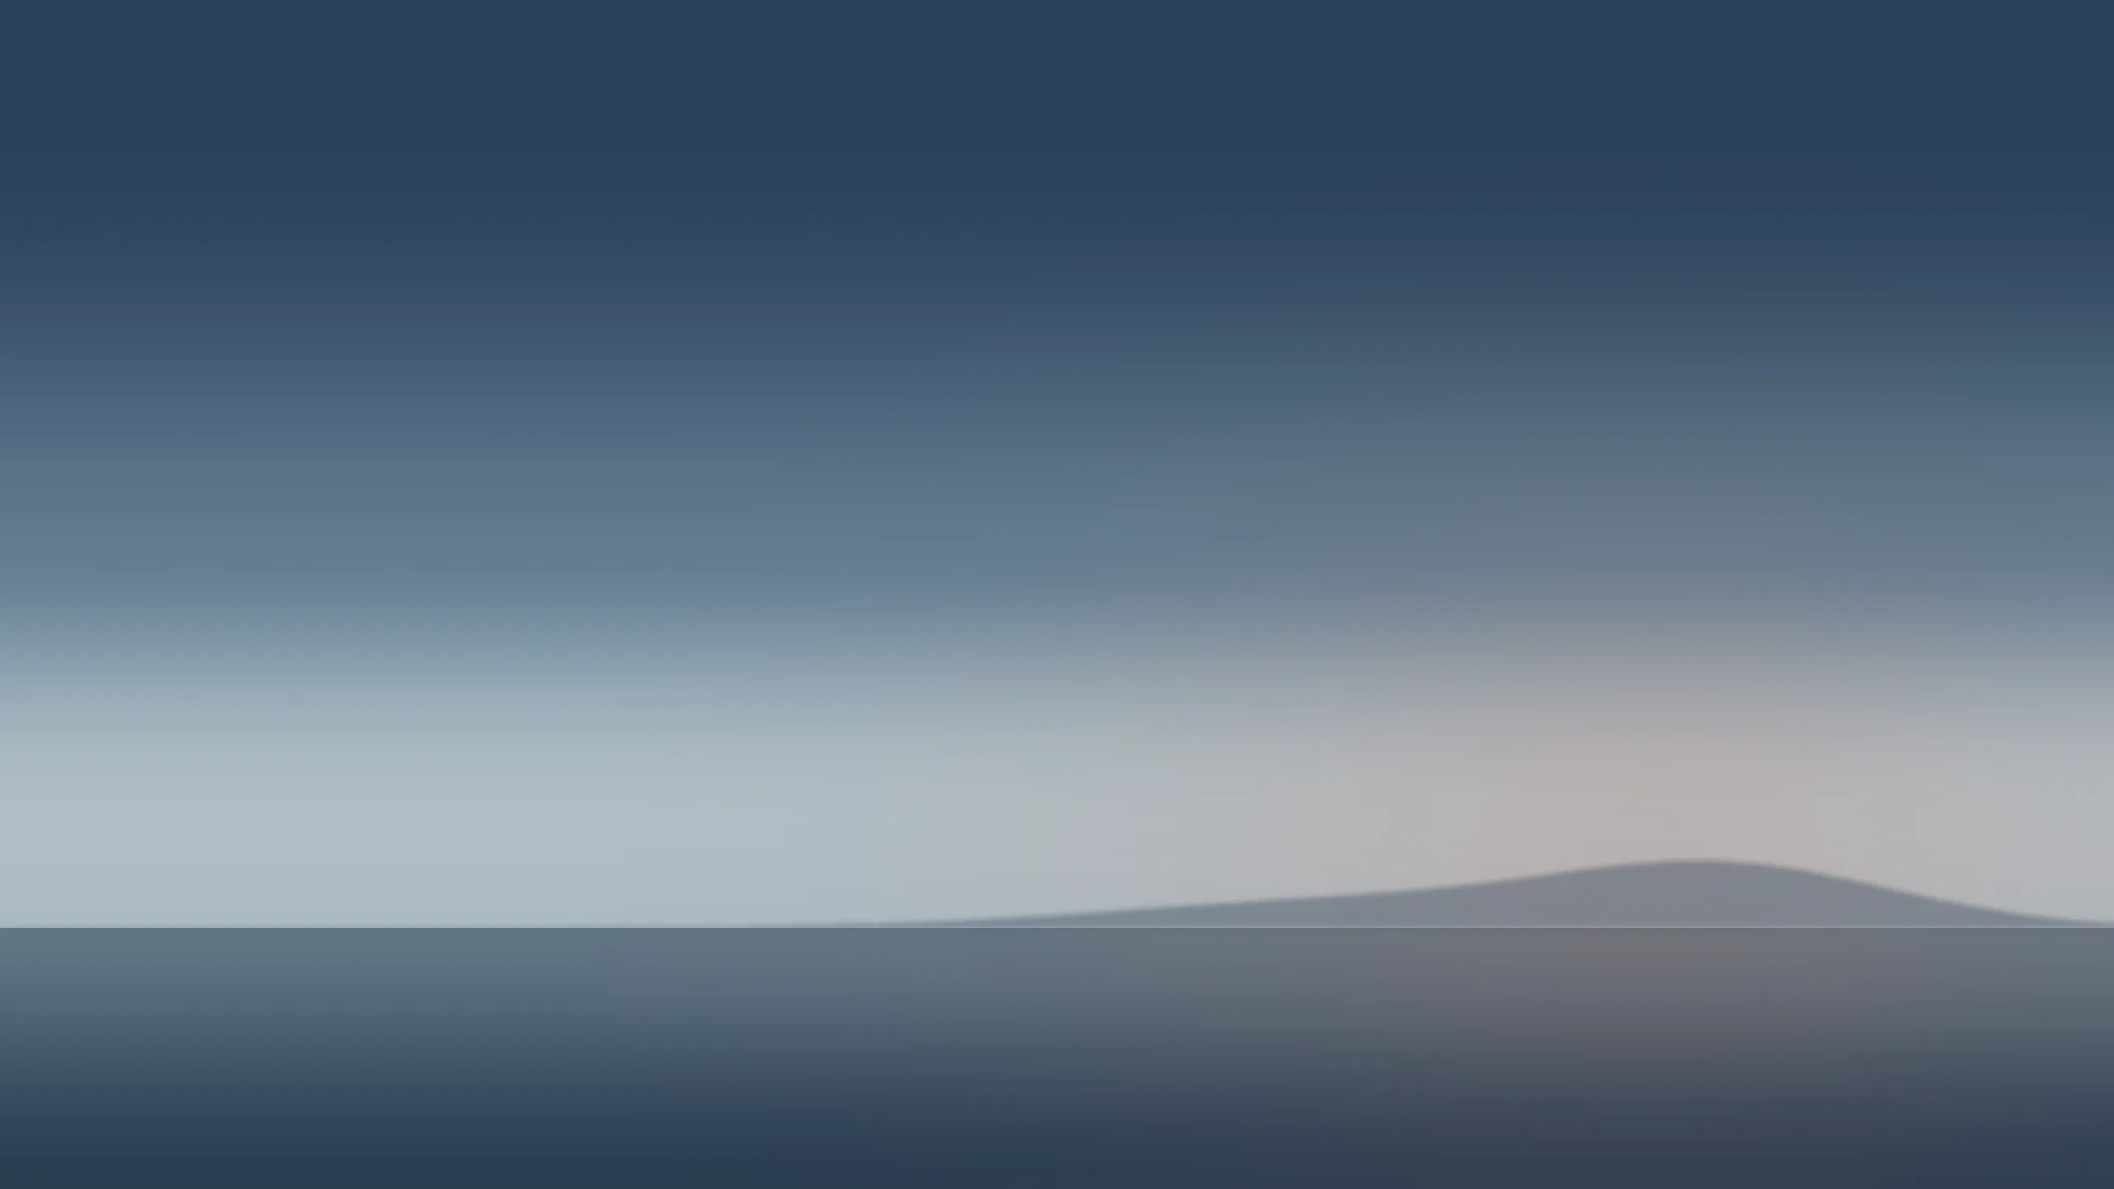
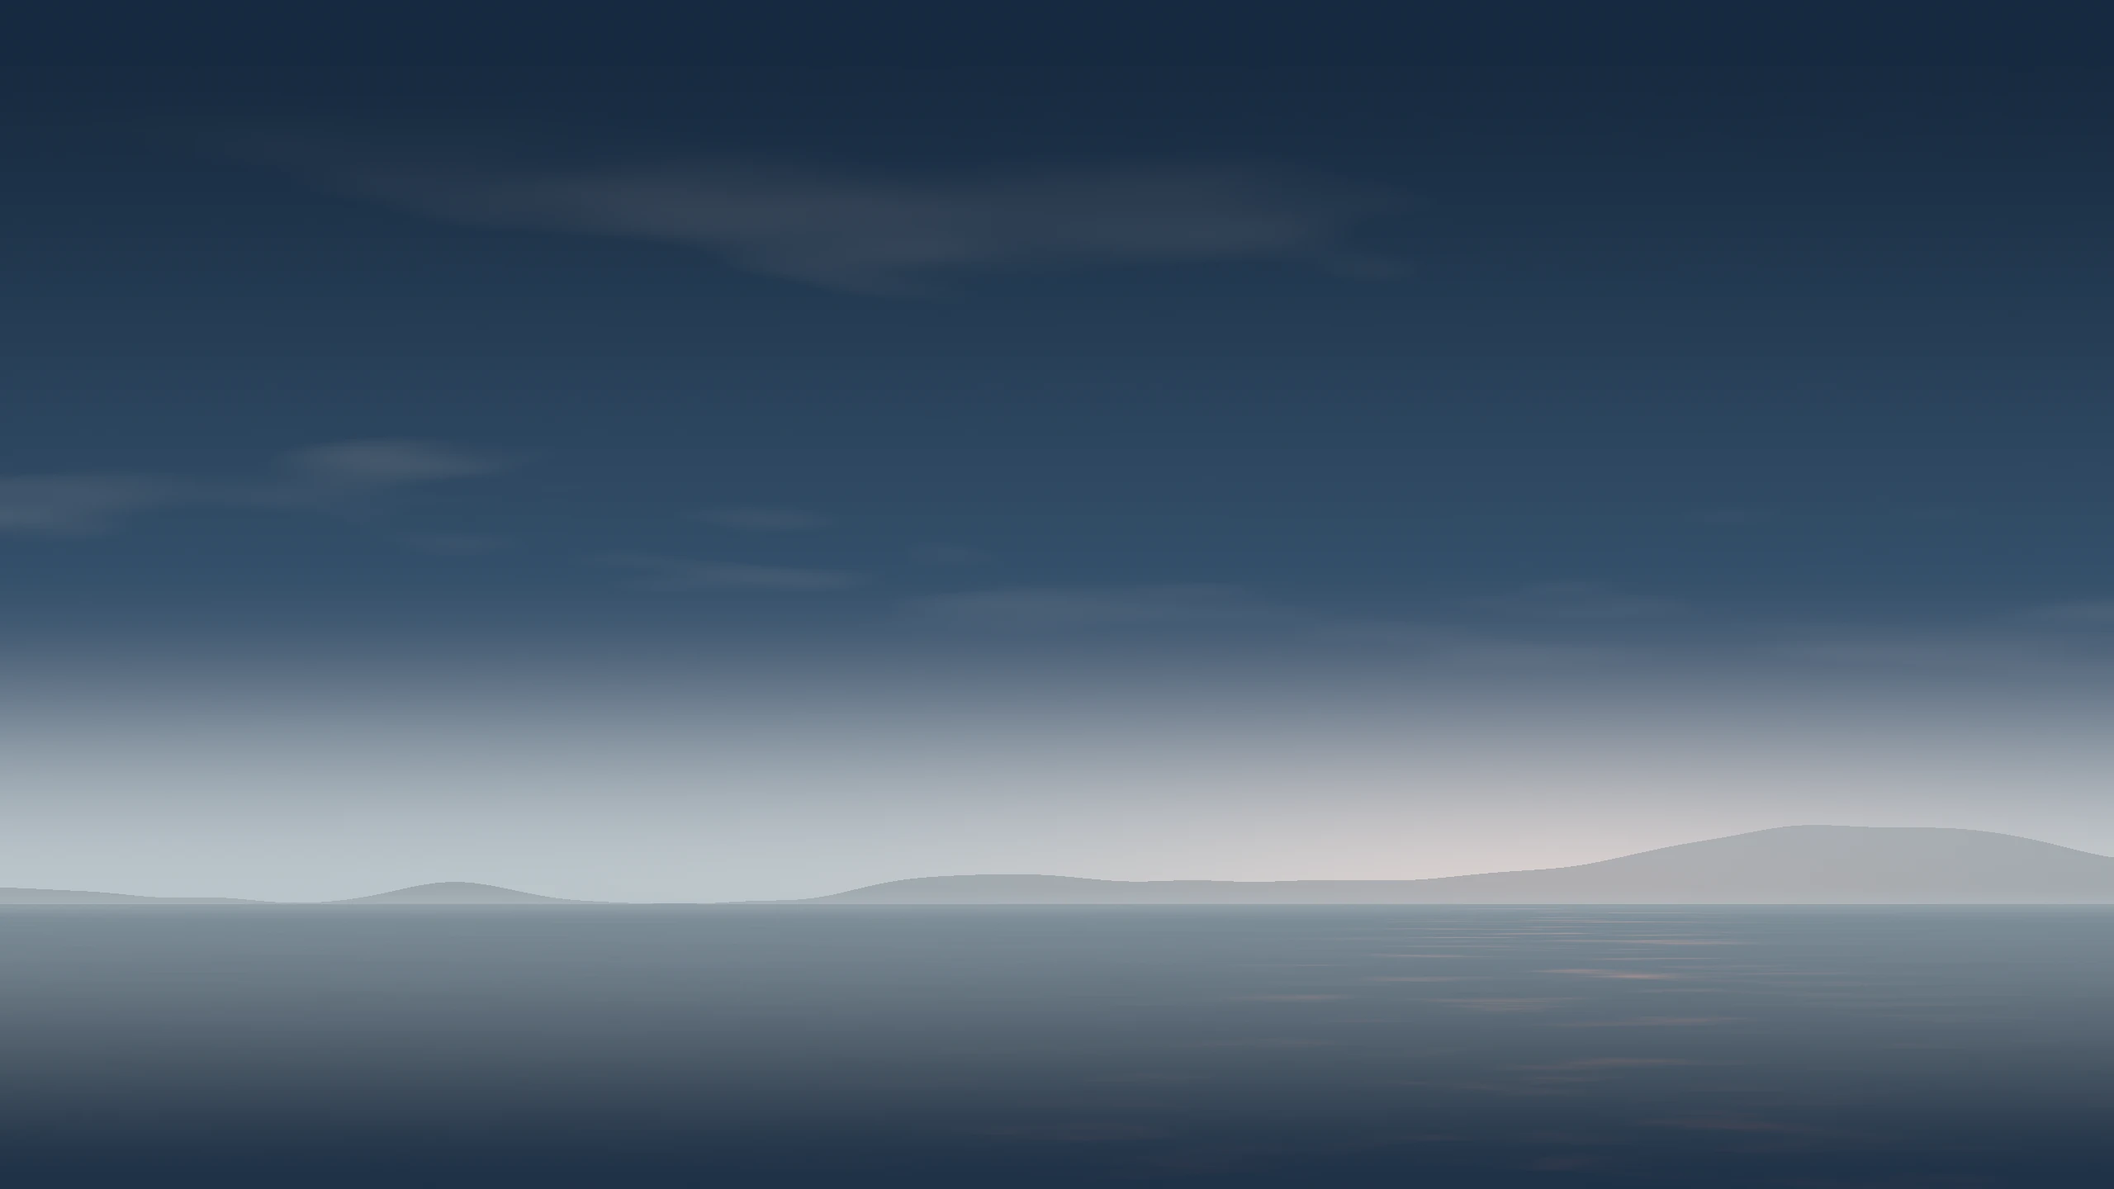
feat(mi-punto): fondo rehecho, ahora aguanta el 100 %
La version anterior eran cuatro degradados y se veia: mar plano,
costura recta por horizonte y bandas en el cielo. Mirado a tamano real
no daba el nivel del resto de la web.

Reescrito con numpy y scipy:
- Todo el mezclado en luz lineal, con paso a sRGB solo al final.
  Mezclar en sRGB es lo que ensuciaba los cielos.
- Nubes con ruido fBm estirado en horizontal y comprimido hacia el
  horizonte, que es la perspectiva de un cielo de verdad.
- Mar con olas cuya frecuencia crece con la distancia, camino de
  brillos bajo el sol y oscurecimiento hacia el espectador.
- El horizonte ya no es una linea dibujada sino bruma.
- Tramado triangular antes de cuantizar: adios escalones.
- La altura del promontorio va con el ancho, no con el alto: en el
  recorte vertical de movil salia un volcan.

El sol se queda pequeno a proposito. En una primera pasada tenia la
escena entera en rosa y la paleta pide azul grisaceo con un acento
calido pequeno.

Revisado recortando al 100 % el horizonte, la zona del titular y el
primer plano, no mirando la imagen reducida. Contraste del texto claro
sobre el fondo: 8,9:1 en el peor punto. 30 kB a 2560x1440.

diff --git a/mi-punto/scripts/generar_fondo.py b/mi-punto/scripts/generar_fondo.py
@@ -1,149 +1,215 @@
 """Fondo ambiental de Mi Punto.
 
-NO es una fotografia. Es un cielo construido por codigo: degradado
-vertical, luz lateral calida, horizonte bajo y grano fino. Se hace asi
-porque en esta sesion no hay generacion de imagenes y una foto con
-licencia habria que descargarla.
+NO es una fotografia: es una escena construida por codigo. Pero no son
+cuatro degradados. La primera version lo era y se notaba al mirarla a
+tamano real: mar plano, costura recta en el horizonte y bandas.
 
-La composicion reserva la mitad superior central limpia: ahi van la
-hora, el saludo y el buscador, y tienen que leerse.
+Lo que hace que aguante el 100 %:
 
-Uso:  python scripts/generar_fondo.py
+  · Todo el mezclado va en luz lineal y solo al final se pasa a sRGB.
+    Mezclar en sRGB es lo que ensucia los cielos.
+  · Nubes con ruido fBm estirado en horizontal y comprimido hacia el
+    horizonte: eso es la perspectiva de un cielo real.
+  · El mar tiene olas cuya frecuencia crece con la distancia, un camino
+    de brillos bajo el sol y oscurecimiento en primer plano.
+  · El horizonte no es una linea dibujada: es bruma, que es lo que se
+    ve de verdad.
+  · Tramado de ruido triangular antes de cuantizar a 8 bits. Sin esto
+    un degradado tan largo hace escalones, por muy bien calculado que
+    este.
+
+La mitad superior central se deja limpia y oscura: ahi van la hora, el
+saludo y el buscador, y tienen que leerse en blanco.
+
+Uso:  npm run fondos   (o  python scripts/generar_fondo.py)
 """
 
 from __future__ import annotations
 
-import math
-import random
 from pathlib import Path
 
-from PIL import Image, ImageDraw, ImageFilter
+import numpy as np
+from PIL import Image
+from scipy.ndimage import gaussian_filter1d, zoom
 
 SALIDA = Path(__file__).resolve().parent.parent / "src" / "assets" / "fondos"
+SEMILLA = 20261010
 
-# Paleta del encargo. El cielo se mueve entre la tinta y un gris azulado
-# claro; el acento calido es compatible con la mandarina de accion.
-TINTA = (24, 43, 67)
-CIELO_ALTO = (38, 62, 88)
-CIELO_MEDIO = (96, 124, 146)
-CIELO_BAJO = (186, 201, 208)
-MAR = (58, 82, 102)
-CALIDO = (246, 106, 56)
+# ---------------------------------------------------------------- color
+
+def srgb_a_lineal(c: np.ndarray) -> np.ndarray:
+    return np.where(c <= 0.04045, c / 12.92, ((c + 0.055) / 1.055) ** 2.4)
 
 
-def mezcla(a: tuple[int, int, int], b: tuple[int, int, int], t: float) -> tuple[int, int, int]:
-    return tuple(round(a[i] + (b[i] - a[i]) * t) for i in range(3))  # type: ignore[return-value]
+def lineal_a_srgb(c: np.ndarray) -> np.ndarray:
+    c = np.clip(c, 0.0, 1.0)
+    return np.where(c <= 0.0031308, c * 12.92, 1.055 * c ** (1 / 2.4) - 0.055)
 
 
-def suave(t: float) -> float:
-    """Curva en S: evita que el degradado se vea en bandas rectas."""
-    return t * t * (3 - 2 * t)
+def tinta(hex_: str) -> np.ndarray:
+    """Un color de la paleta, ya en luz lineal."""
+    v = np.array([int(hex_[i : i + 2], 16) for i in (1, 3, 5)], dtype=np.float32) / 255.0
+    return srgb_a_lineal(v).astype(np.float32)
 
 
-def cielo(ancho: int, alto: int, horizonte: float) -> Image.Image:
-    """Degradado vertical en tres tramos hasta el horizonte."""
-    lienzo = Image.new("RGB", (1, alto))
-    pintor = ImageDraw.Draw(lienzo)
-    y_horizonte = alto * horizonte
-    for y in range(alto):
-        if y < y_horizonte:
-            t = suave(y / y_horizonte)
-            color = mezcla(CIELO_ALTO, CIELO_MEDIO, suave(min(1.0, t * 1.45))) if t < 0.62 \
-                else mezcla(CIELO_MEDIO, CIELO_BAJO, suave((t - 0.62) / 0.38))
-        else:
-            t = (y - y_horizonte) / max(1.0, alto - y_horizonte)
-            color = mezcla(mezcla(MAR, CIELO_BAJO, 0.35), TINTA, suave(t) * 0.75)
-        pintor.point((0, y), fill=color)
-    return lienzo.resize((ancho, alto), Image.Resampling.BILINEAR)
+# Paleta de la escena. Parientes de los tokens del producto.
+CENIT = tinta("#16293F")
+CIELO_MEDIO = tinta("#3C5A77")
+BRUMA = tinta("#C3CDD2")
+SOL = tinta("#F6A06A")
+MAR_LEJOS = tinta("#8595A0")
+MAR_CERCA = tinta("#22354A")
+TIERRA = tinta("#4A5E6E")
 
 
-def luz_lateral(ancho: int, alto: int, horizonte: float, desde_izquierda: bool) -> Image.Image:
-    """Resplandor calido bajo y lateral, como un sol fuera de cuadro."""
-    capa = Image.new("L", (ancho, alto), 0)
-    pintor = ImageDraw.Draw(capa)
-    cx = ancho * (0.22 if desde_izquierda else 0.78)
-    cy = alto * (horizonte - 0.06)
-    radio = max(ancho, alto) * 0.58
-    pasos = 90
-    for i in range(pasos, 0, -1):
-        r = radio * i / pasos
-        valor = round(150 * (1 - i / pasos) ** 2.1)
-        pintor.ellipse((cx - r, cy - r * 0.62, cx + r, cy + r * 0.62), fill=valor)
-    return capa.filter(ImageFilter.GaussianBlur(radius=max(ancho, alto) * 0.035))
+# ---------------------------------------------------------------- ruido
+
+def ruido_valor(alto: int, ancho: int, celdas_y: int, celdas_x: int, rng) -> np.ndarray:
+    """Ruido suave: una rejilla pequena ampliada con interpolacion
+    bicubica. Barato y sin artefactos de rejilla visibles."""
+    base = rng.random((max(2, celdas_y), max(2, celdas_x))).astype(np.float32)
+    return np.clip(
+        zoom(base, (alto / base.shape[0], ancho / base.shape[1]), order=3), 0.0, 1.0
+    )[:alto, :ancho]
 
 
-def promontorio(ancho: int, alto: int, horizonte: float, desde_izquierda: bool) -> Image.Image:
-    """Costa lejana: una silueta muy baja y de poco contraste. Da
-    profundidad sin competir con los controles."""
-    capa = Image.new("L", (ancho, alto), 0)
-    pintor = ImageDraw.Draw(capa)
-    y0 = alto * horizonte
-    pico = alto * 0.045
-    puntos = [(0 if desde_izquierda else ancho, y0 + 2)]
-    tramos = 48
-    for i in range(tramos + 1):
-        t = i / tramos
-        x = ancho * (t if desde_izquierda else 1 - t)
-        perfil = math.exp(-((t - 0.18) ** 2) / 0.012) * 1.0 + math.exp(-((t - 0.34) ** 2) / 0.03) * 0.55
-        puntos.append((x, y0 - pico * perfil))
-    puntos.append((ancho if desde_izquierda else 0, y0 + 2))
-    pintor.polygon(puntos, fill=96)
-    return capa.filter(ImageFilter.GaussianBlur(radius=max(2, ancho * 0.0012)))
+def fbm(alto: int, ancho: int, celdas_y: int, celdas_x: int, octavas: int, rng) -> np.ndarray:
+    """Suma de octavas. Cada una duplica el detalle y pesa la mitad."""
+    total = np.zeros((alto, ancho), dtype=np.float32)
+    amplitud, peso = 1.0, 0.0
+    for i in range(octavas):
+        total += amplitud * ruido_valor(alto, ancho, celdas_y * 2**i, celdas_x * 2**i, rng)
+        peso += amplitud
+        amplitud *= 0.5
+    return total / peso
 
 
-def grano(ancho: int, alto: int, fuerza: int) -> Image.Image:
-    """Ruido fino. Sin el, un degradado tan largo hace bandas visibles."""
-    rnd = random.Random(20261010)
-    pequeno = Image.new("L", (max(2, ancho // 2), max(2, alto // 2)))
-    pequeno.putdata([128 + rnd.randint(-fuerza, fuerza) for _ in range(pequeno.width * pequeno.height)])
-    return pequeno.resize((ancho, alto), Image.Resampling.BILINEAR)
+def suave(x: np.ndarray) -> np.ndarray:
+    x = np.clip(x, 0.0, 1.0)
+    return x * x * (3 - 2 * x)
 
 
-def construir(ancho: int, alto: int, horizonte: float, desde_izquierda: bool = True) -> Image.Image:
-    base = cielo(ancho, alto, horizonte)
+# ------------------------------------------------------------- escena
 
-    calido = Image.new("RGB", (ancho, alto), CALIDO)
-    base = Image.composite(
-        Image.blend(base, calido, 0.34), base, luz_lateral(ancho, alto, horizonte, desde_izquierda)
+def construir(ancho: int, alto: int, horizonte: float, sol_x: float) -> Image.Image:
+    rng = np.random.default_rng(SEMILLA)
+    y = np.linspace(0.0, 1.0, alto, dtype=np.float32)[:, None]
+    x = np.linspace(0.0, 1.0, ancho, dtype=np.float32)[None, :]
+    yh = alto * horizonte
+
+    lienzo = np.zeros((alto, ancho, 3), dtype=np.float32)
+
+    # ---- cielo: cenit -> medio -> bruma, con la curva cargada abajo --
+    t = suave(np.clip(y / horizonte, 0, 1))
+    t_bruma = suave(np.clip((y / horizonte - 0.58) / 0.42, 0, 1)) ** 1.9
+    cielo = CENIT * (1 - t)[..., None] + CIELO_MEDIO * t[..., None]
+    cielo = cielo * (1 - t_bruma)[..., None] + BRUMA * t_bruma[..., None]
+
+    # ---- luz del sol: fuera de cuadro, justo bajo el horizonte -------
+    dx = (x - sol_x) * 1.35
+    dy = (y - horizonte * 1.01) * 3.2
+    dist = np.sqrt(dx**2 + dy**2)
+    resplandor = np.exp(-(dist**1.7) * 7.0).astype(np.float32)
+    cielo = cielo + SOL * (resplandor * 0.26)[..., None]
+
+    # ---- nubes: fBm estirado y comprimido hacia el horizonte ---------
+    # La compresion vertical es la perspectiva: las nubes lejanas se
+    # aplastan contra la linea del horizonte.
+    perspectiva = np.clip(y / horizonte, 0.0, 1.0)
+    altura_nube = 1.0 - (1.0 - perspectiva) ** 0.42
+    idx = np.clip((altura_nube * (alto - 1)), 0, alto - 1).astype(np.int32)
+
+    # Bandas: frecuencia alta en vertical y baja en horizontal
+    nube_base = fbm(alto, ancho, 11, 3, 4, rng)
+    nubes = nube_base[idx, np.arange(ancho)[None, :]]
+    nubes = gaussian_filter1d(nubes, sigma=1.6, axis=0)
+    nubes = gaussian_filter1d(nubes, sigma=ancho * 0.004, axis=1)
+
+    # Solo nubes en la franja media-alta; nada pegado al horizonte
+    mascara = suave(np.clip((perspectiva - 0.10) / 0.35, 0, 1)) * suave(
+        np.clip((0.90 - perspectiva) / 0.30, 0, 1)
     )
+    jirones = np.clip((nubes - 0.56) * 2.2, 0, 1) * mascara
+    jirones = jirones.astype(np.float32)
 
-    oscuro = Image.new("RGB", (ancho, alto), mezcla(TINTA, MAR, 0.45))
-    base = Image.composite(oscuro, base, promontorio(ancho, alto, horizonte, desde_izquierda))
+    # Las nubes aclaran, y por debajo cogen la luz calida del sol
+    luz_nube = BRUMA * 0.80 + SOL * (resplandor * 0.55)[..., None]
+    cielo = cielo * (1 - jirones * 0.38)[..., None] + luz_nube * (jirones * 0.38)[..., None]
 
-    # Linea de horizonte: un filo claro, no una raya dura
-    filo = Image.new("L", (ancho, alto), 0)
-    ImageDraw.Draw(filo).rectangle(
-        (0, alto * horizonte - max(1, alto * 0.0012), ancho, alto * horizonte + max(1, alto * 0.0012)),
-        fill=70,
-    )
-    filo = filo.filter(ImageFilter.GaussianBlur(radius=max(1, alto * 0.002)))
-    base = Image.composite(Image.new("RGB", (ancho, alto), CIELO_BAJO), base, filo)
+    lienzo[:] = cielo
 
-    # Vineteado muy leve hacia abajo, para asentar la interfaz
-    sombra = Image.new("L", (1, alto))
-    pintor = ImageDraw.Draw(sombra)
-    for y in range(alto):
-        t = y / alto
-        pintor.point((0, y), fill=round(58 * max(0.0, (t - 0.55) / 0.45) ** 1.5))
-    base = Image.composite(
-        Image.new("RGB", (ancho, alto), TINTA), base, sombra.resize((ancho, alto), Image.Resampling.BILINEAR)
-    )
+    # ---- mar ---------------------------------------------------------
+    bajo = y >= horizonte
+    prof = np.clip((y - horizonte) / max(1e-6, 1.0 - horizonte), 0, 1)
+    prof_s = suave(prof)
 
-    return Image.blend(base, Image.merge("RGB", (grano(ancho, alto, 7),) * 3), 0.035)
+    caida = (prof_s ** 0.75)
+    agua = MAR_LEJOS * (1 - caida)[..., None] + MAR_CERCA * caida[..., None]
+
+    # Reflejo del sol: columna ensanchada hacia el espectador
+    ancho_reflejo = 0.030 + prof * 0.20
+    reflejo = np.exp(-((x - sol_x) ** 2) / (2 * ancho_reflejo**2))
+    reflejo = reflejo * np.exp(-prof * 3.4)
+
+    # Olas: la frecuencia crece hacia el horizonte (perspectiva)
+    escala = np.clip(prof, 0.012, 1.0)
+    fila_ola = np.clip((np.log(escala / 0.012) / np.log(1 / 0.012)) * (alto - 1), 0, alto - 1)
+    idx_ola = fila_ola.astype(np.int32)
+    olas_base = fbm(alto, ancho, 90, 16, 4, rng)
+    olas = olas_base[idx_ola, np.arange(ancho)[None, :]]
+    olas = (olas - olas.mean()) * 2.0
+
+    # El brillo solo existe donde hay cresta y donde da la luz
+    destellos = np.clip(olas, 0, 1) ** 1.6 * reflejo
+    agua = agua + SOL * (destellos * 0.70)[..., None]
+    # Textura general muy leve, para que el agua no sea una plancha
+    agua = agua * (1.0 + olas * 0.035 * (1 - prof_s * 0.6))[..., None]
+
+    lienzo = np.where(bajo[..., None], agua, lienzo)
+
+    # ---- promontorio: silueta irregular que se come la bruma ---------
+    perfil = fbm(1, ancho, 1, 5, 4, rng)[0]
+    perfil = gaussian_filter1d(perfil, sigma=ancho * 0.012)
+    perfil = (perfil - perfil.min()) / max(1e-6, float(np.ptp(perfil)))
+    joroba = np.exp(-((np.linspace(0, 1, ancho) - (sol_x + 0.12)) ** 2) / 0.030)
+    # La altura va con el ANCHO: si va con el alto, en el recorte
+    # vertical de movil el promontorio se convierte en un volcan.
+    altura = (perfil * 0.45 + joroba * 0.9) * ancho * 0.031
+    cresta = yh - altura
+    es_tierra = (np.arange(alto)[:, None] >= cresta[None, :]) & (np.arange(alto)[:, None] < yh)
+    # Perspectiva aerea: lo lejano se disuelve en la bruma
+    velo = 0.62
+    tierra = TIERRA * (1 - velo) + BRUMA * velo
+    lienzo = np.where(es_tierra[..., None], tierra + SOL * (resplandor * 0.12)[..., None], lienzo)
+
+    # ---- bruma del horizonte: sin linea dibujada ---------------------
+    franja = np.exp(-(((y - horizonte) * alto / (alto * 0.009)) ** 2))
+    lienzo = lienzo * (1 - franja * 0.30)[..., None] + (BRUMA * 0.98) * (franja * 0.30)[..., None]
+
+    # ---- asiento: la interfaz necesita algo mas oscuro abajo ---------
+    vineta = suave(np.clip((y - 0.58) / 0.42, 0, 1)) ** 1.3
+    lienzo = lienzo * (1 - vineta * 0.34)[..., None] + CENIT * (vineta * 0.34)[..., None]
+
+    # ---- a sRGB + tramado --------------------------------------------
+    salida = lineal_a_srgb(lienzo)
+    # Ruido triangular de +-1 nivel: convierte los escalones en grano
+    tramado = (rng.random(salida.shape, dtype=np.float32) - rng.random(salida.shape, dtype=np.float32))
+    salida = salida + tramado * (1.4 / 255.0)
+    return Image.fromarray(np.clip(salida * 255.0 + 0.5, 0, 255).astype(np.uint8), "RGB")
 
 
 def main() -> None:
     SALIDA.mkdir(parents=True, exist_ok=True)
     piezas = [
-        ("costa-escritorio", 2560, 1440, 0.74, True),
-        ("costa-movil", 1170, 2200, 0.66, True),
-        ("alba-escritorio", 2560, 1440, 0.78, False),
-        ("alba-movil", 1170, 2200, 0.70, False),
+        ("costa-escritorio", 2560, 1440, 0.705, 0.26),
+        ("costa-movil", 1170, 2200, 0.620, 0.30),
+        ("alba-escritorio", 2560, 1440, 0.760, 0.74),
+        ("alba-movil", 1170, 2200, 0.660, 0.70),
     ]
-    for nombre, ancho, alto, horizonte, izquierda in piezas:
-        img = construir(ancho, alto, horizonte, izquierda)
+    for nombre, ancho, alto, horizonte, sol in piezas:
+        img = construir(ancho, alto, horizonte, sol)
         destino = SALIDA / f"{nombre}.webp"
-        img.save(destino, "WEBP", quality=82, method=6)
+        img.save(destino, "WEBP", quality=90, method=6)
         print(f"{destino.name}  {ancho}x{alto}  {destino.stat().st_size // 1024} kB")
 
 

diff --git a/mi-punto/ASSETS.md b/mi-punto/ASSETS.md
@@ -6,10 +6,26 @@
 recorte de escritorio (2560×1440) y de móvil (1170×2200). Entre 11 y 16 kB cada
 uno.
 
-**No son fotografías.** Son imágenes construidas por código con Pillow:
-degradado vertical de cielo en tres tramos, luz lateral cálida junto al
-horizonte, un promontorio lejano de bajo contraste, filo de horizonte,
-viñeteado suave y grano fino para evitar bandas.
+**No son fotografías.** Son escenas construidas por código con numpy, scipy y
+Pillow. La primera versión sí eran cuatro degradados, y se notaba al mirarla a
+tamaño real: mar plano, costura recta en el horizonte y bandas. Lo que hace que
+la actual aguante al 100 %:
+
+- **Todo el mezclado va en luz lineal** y solo al final se pasa a sRGB. Mezclar
+  en sRGB es lo que ensucia los cielos.
+- **Nubes con ruido fBm** estirado en horizontal y comprimido hacia el
+  horizonte: eso es la perspectiva de un cielo real.
+- **Mar con olas** cuya frecuencia crece con la distancia, un camino de brillos
+  bajo el sol y oscurecimiento hacia el espectador.
+- **El horizonte no es una línea dibujada**, es bruma: lo que se ve de verdad.
+- **Tramado triangular** antes de cuantizar a 8 bits. Sin esto, un degradado tan
+  largo hace escalones por muy bien calculado que esté.
+- La altura del promontorio va con el **ancho** de la imagen, no con el alto: si
+  no, en el recorte vertical de móvil se convierte en un volcán.
+
+Comprobado recortando al 100 % el horizonte, la zona del titular y el primer
+plano, no mirando la imagen reducida. Contraste del texto claro sobre la zona
+del titular: **8,9:1** en el peor punto.
 
 - Fuente reproducible: `scripts/generar_fondo.py`. Se regeneran con
   `npm run fondos` (requiere Python con Pillow).

diff --git a/mi-punto/QA.md b/mi-punto/QA.md
@@ -29,6 +29,7 @@ cual.
 | 19 | Cadena de iconos | Pasa. De 8 accesos del ejemplo, 7 con icono real: El País y Wikipedia por `apple-touch-icon`, Drive, YouTube y Spotify por `favicon.ico`, Gmail y Calendario por el dominio raíz. Notion no publica ninguno y queda con su inicial. |
 | 20 | Icono propio por acceso | Pasa. Con texto que no es una dirección: «Esa no es una dirección de imagen válida». Con una URL buena: vista previa en el propio campo y guardado en disco. |
 | 21 | «Volver a buscar los iconos» | Pasa. Había 3 dominios recordados como fallidos; el aviso dice «Se volverán a buscar 3 sitios» y Gmail y Calendario pasan a mostrar icono. |
+| 23 | Fondo a tamaño real | Pasa tras rehacerlo. Recortes 1:1 del horizonte, de la zona del titular y del primer plano: sin bandas, sin costura en el horizonte y con textura real en el agua. Contraste del texto claro, 8,9:1 medido sobre los píxeles del fondo. |
 | 22 | Color de grupo desde la web | Pasa. El punto abre las seis opciones, se elige una, el menú se cierra y el color cambia también en la ficha del inicio. |
 
 ## Adaptación
